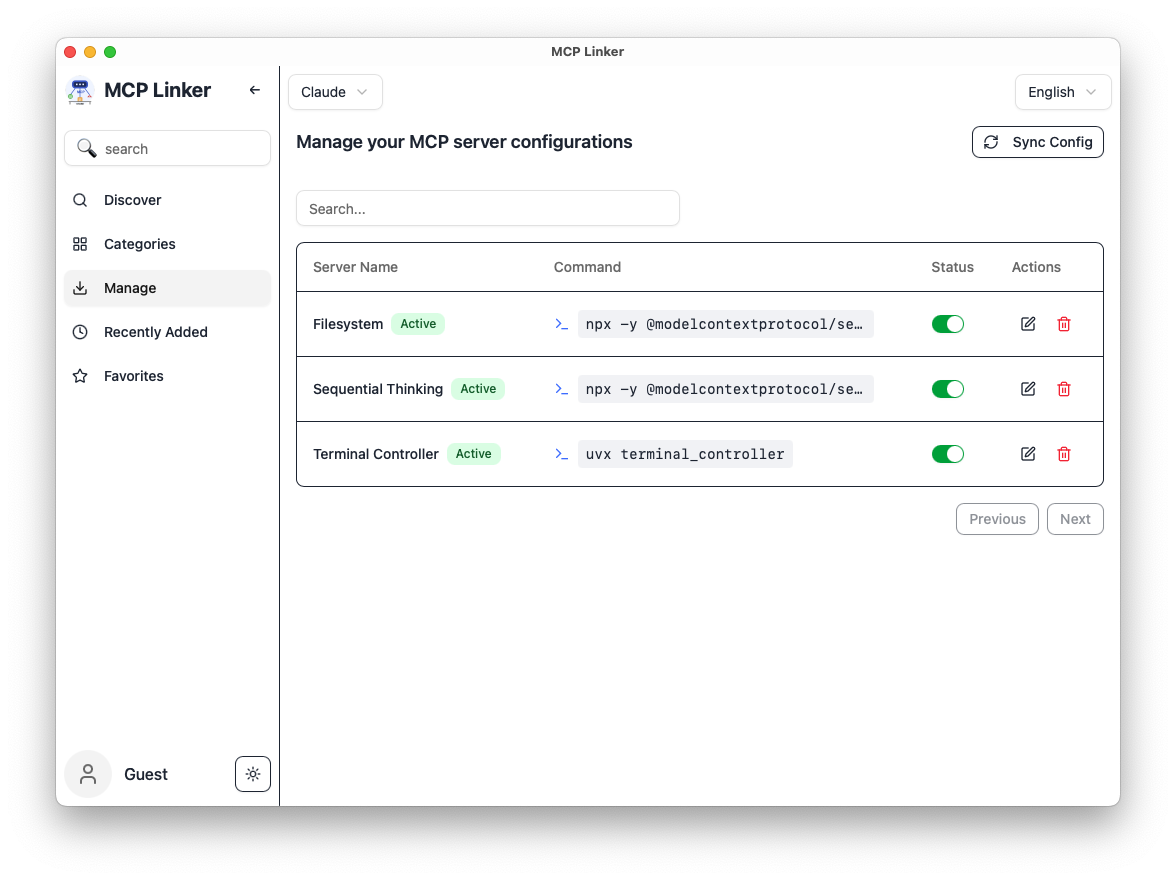
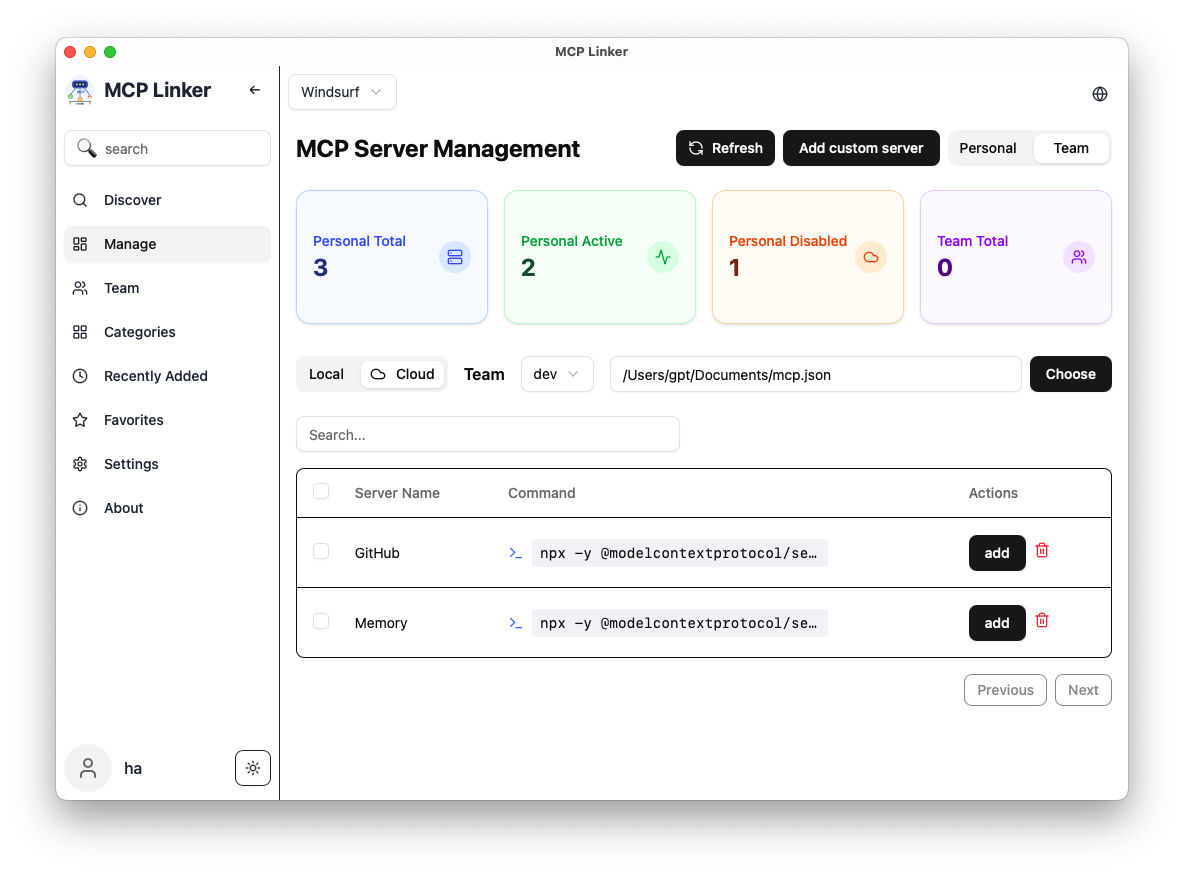
feat: update README and enhance server management UI
- Replaced the screenshot in README.md with a demo GIF for better visual representation.
- Updated the benefits section in README.md to clarify that team collaboration features are in beta.
- Improved the layout of the feature comparison table in README.md for better readability.
- Enhanced ServerCard component to display server logos if available, falling back to a GitHub icon if not.
- Added a refresh button and an "Add Custom Server" button in the McpManage component for improved user interaction.
- Introduced a dialog for adding custom servers in the McpManage component.
- Updated ServerType to rename icon_url to logoUrl for consistency.

diff --git a/src/pages/manage.tsx b/src/pages/manage.tsx
@@ -1,18 +1,20 @@
+import { Dashboard } from "@/components/manage/Dashboard";
 import { LocalTable } from "@/components/manage/LocalTable";
 import { PersonalCloudTable } from "@/components/manage/PersonalCloudTable";
 import { TeamCloudTable } from "@/components/manage/team/TeamCloudTable";
 import { TeamLocalTable } from "@/components/manage/team/TeamLocalTable";
 import { TeamSelector } from "@/components/manage/team/TeamSelector";
+import { ServerTemplateDialog } from "@/components/server";
 import { ConfigFileSelector } from "@/components/settings/ConfigFileSelector";
-import { Dashboard } from "@/components/manage/Dashboard";
 import { Button } from "@/components/ui/button";
 import { Tabs, TabsContent, TabsList, TabsTrigger } from "@/components/ui/tabs";
 import { useAuth } from "@/hooks/useAuth";
 import { useTabStore } from "@/stores/tabStore";
 import { useTeamStore } from "@/stores/team";
 import { getEncryptionKey } from "@/utils/encryption";
-import { Cloud } from "lucide-react";
+import { Cloud, RefreshCcw } from "lucide-react";
 import { useEffect, useState } from "react";
+import { useTranslation } from "react-i18next";
 import { useNavigate } from "react-router";
 
 export default function McpManage() {
@@ -26,6 +28,8 @@ export default function McpManage() {
   } = useTabStore();
   const { isAuthenticated } = useAuth();
   const { selectedTeamId } = useTeamStore();
+  const { t } = useTranslation();
+  const [isDialogOpen, setIsDialogOpen] = useState(false);
   const [encryptionKey, setEncryptionKey] = useState<string | null>(null);
   const [personalStats, setPersonalStats] = useState({
     total: 0,
@@ -45,6 +49,10 @@ export default function McpManage() {
     fetchKey();
   }, []);
 
+  const handleAddServer = () => {
+    setIsDialogOpen(true);
+  };
+
   return (
     <div className="p-4 bg-background text-foreground">
       <Tabs
@@ -54,15 +62,26 @@ export default function McpManage() {
       >
         <div className="flex items-center justify-between mb-4">
           <h1 className="text-2xl font-bold">MCP Server Management</h1>
-          <TabsList className="grid grid-cols-2 gap-2 bg-secondary">
-            <TabsTrigger value="personal">Personal</TabsTrigger>
-            <TabsTrigger value="team">Team</TabsTrigger>
-          </TabsList>
+          <span className="flex items-center gap-2">
+            <Button
+              className="flex"
+              onClick={() => {
+                navigate(0);
+              }}
+            >
+              <RefreshCcw /> Refresh
+            </Button>
+            <Button onClick={handleAddServer}>{t("addCustomServer")}</Button>
+            <TabsList className="grid grid-cols-2 gap-2 bg-secondary">
+              <TabsTrigger value="personal">Personal</TabsTrigger>
+              <TabsTrigger value="team">Team</TabsTrigger>
+            </TabsList>
+          </span>
         </div>
-        
+
         {/* Dashboard */}
         <Dashboard personalStats={personalStats} teamStats={teamStats} />
-        
+
         <div className="flex-1 min-h-0">
           {/* personal */}
           <TabsContent value="personal" className="flex-1 min-h-0">
@@ -147,6 +166,12 @@ export default function McpManage() {
           </TabsContent>
         </div>
       </Tabs>
+
+      <ServerTemplateDialog
+        isOpen={isDialogOpen}
+        setIsDialogOpen={setIsDialogOpen}
+        isSell={false}
+      />
     </div>
   );
 }

diff --git a/src/components/server/list/ServerCard.tsx b/src/components/server/list/ServerCard.tsx
@@ -77,8 +77,12 @@ export function ServerCard({
       <CardHeader className="px-2 py-2 pb-0">
         <div className="flex justify-between items-start">
           <div className="flex gap-3 items-start">
-            <div className="p-2 bg-gray-100 rounded-full">
-              {showGithubIcon && <Github size={18} />}
+            <div className="bg-gray-100 rounded-full">
+             {server.logoUrl ? (
+               <img src={server.logoUrl} alt="icon" className="w-12 h-12 rounded-full" />
+             ) : (
+               showGithubIcon && <Github size={24} />
+             )}
             </div>
             <div>
               <CardTitle className="text-base">

diff --git a/src/components/Layout/Sidebar.tsx b/src/components/Layout/Sidebar.tsx
@@ -92,6 +92,7 @@ export const Sidebar = ({ navs }: SidebarProps) => {
           {!isCollapsed && (
             <p className="font-medium">
               {user?.user_metadata.full_name ||
+                user?.user_metadata.user_name ||
                 user?.user_metadata.email.slice(0, 2) ||
                 t("guest")}
             </p>

diff --git a/src/types/ServerType.ts b/src/types/ServerType.ts
@@ -2,7 +2,7 @@ export type ServerType = {
   id: string;
   name: string;
   developer?: string;
-  icon_url?: string;
+  logoUrl?: string;
   description: string;
   category?: string;
   source: string;
@@ -12,4 +12,5 @@ export type ServerType = {
   rating: number;
   views: number;
   isFavorited: boolean;
+  tags?: string[]
 };

diff --git a/README.md b/README.md
@@ -33,7 +33,7 @@ Add, manage, and sync MCP (Model Context Protocol) servers across AI clients lik
 
 **The fastest way to supercharge your AI workflow with 600+ curated MCP servers.**
 
-![Screenshot](./images/manage.png)
+![Demo](./images/demo.gif)
 
 ### 🎯 Key Features
 
@@ -48,7 +48,7 @@ Add, manage, and sync MCP (Model Context Protocol) servers across AI clients lik
 
 ### 💎 Game-Changing Benefits
 
-**Sync MCP server configuration across all your MCP clients. Pro users get secure, encrypted backup of their `mcp_server_config` to our FastAPI backend. Team collaboration features coming soon!**
+**Sync MCP server configuration across all your MCP clients. Pro users get secure, encrypted backup of their `mcp_server_config` to our FastAPI backend. Team collaboration features (beta)!**
 
 ## 🚀 Quick Start
 
@@ -63,17 +63,23 @@ Add, manage, and sync MCP (Model Context Protocol) servers across AI clients lik
 
 | Feature                 | Free      | Pro     | Team    |
 |-------------------------|-----------|---------|---------|
+| Multi-client management | ✅        | ✅      | ✅      |
 | One-click install       | ✅        | ✅      | ✅      |
 | Sync across devices     | ❌        | ✅      | ✅      |
 | Encrypted sync          | ❌        | ✅      | ✅      |
 | Multi-team management   | ❌        | ❌      | ✅      |
 | Early access features   | ❌        | ✅      | ✅      |
 
+## 🚀 Upgrade to MCP-Linker Pro or Team
+
+Access cloud sync, unlimited clients, and more!  
+👉 [View Tiers & Subscribe](https://mcp-linker.store/tiers)
+
 ## 📸 Screenshots
 
-| 🔍 Server Discovery | ⚙ Configuration |
-|---------------------|------------------|
-| ![Discover](./images/home.png) | ![Config](./images/config.png) |
+| Manage | 🔍 Server Discovery | ⚙ Configuration |
+|---------------------|---------------------|------------------|
+![Manage](./images/manage.png)| ![Discover](./images/home.png) | ![Config](./images/config.png) |
 
 ---
 
